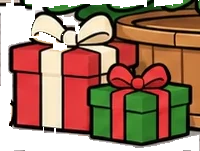
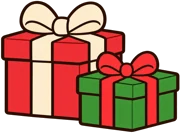
크리스마스 광장: 선물 상자를 주인이 ChatGPT로 다시 그린 것으로(옛 트리 화분·잎 조각이 붙어 있었음) (tools/make_plaza_props.py REF, web/plaza/props/gifts-left·gift-right)
Claude-Session: https://claude.ai/code/session_013gkWdjqDwwMfs8SrUNHEXQ

diff --git a/tools/make_plaza_props.py b/tools/make_plaza_props.py
@@ -125,7 +125,7 @@ for pid in ORDER:
     print(f'{pid:11s} 자리 {places[pid][:2]} 크기 {places[pid][2:]}')
 # 다시 그려 받은 소품 (2026-11-16: 차이 뽑기로는 회전목마·노점이 누덕누덕 — 주인이 ChatGPT로 같은 크기로 다시, 배경 투명):
 # assets/plaza/props/<id>-day·night-source-v1.png 는 assets/plaza/prop-ref/<id>-*-ref.png(아래 REF 상자를 자른 것)와 같은 크기·자리
-REF = {'carousel': (30, 390), 'stall': (186, 745), 'tree': (469, 20)}  # tree: 참고 상자 (460, 20)에서 꼭대기 별을 맞추려 x +9
+REF = {'carousel': (30, 390), 'stall': (186, 745), 'tree': (469, 20), 'gifts-left': (495, 695), 'gift-right': (862, 750)}  # tree: 참고 상자 (460, 20)에서 꼭대기 별을 맞추려 x +9
 for pid, (rx, ry) in REF.items():
     srcs = {n: ROOT / f'assets/plaza/props/{pid}-{n}-source-v1.png' for n in ('day', 'night')}
     if not all(f.exists() for f in srcs.values()):
